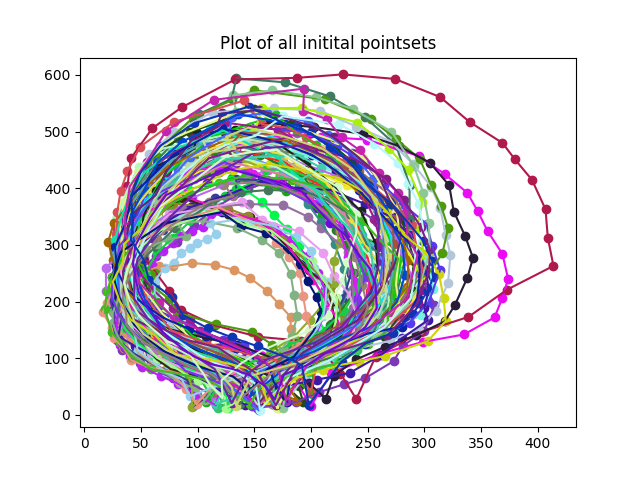
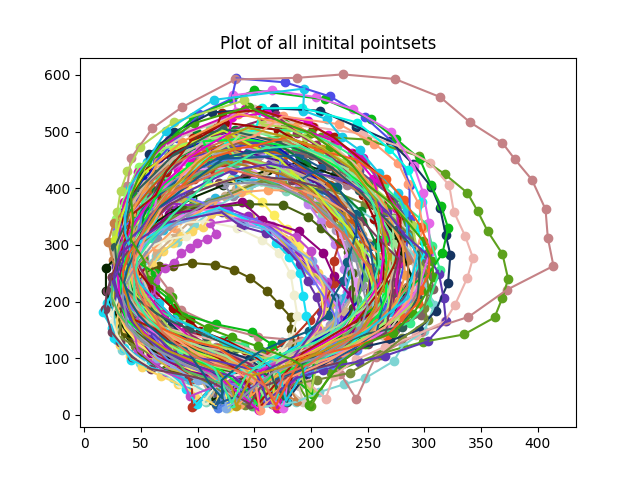
A1: Brain data done

diff --git a/assignmentShapeAnalysis/code/visualize_pointset.py b/assignmentShapeAnalysis/code/visualize_pointset.py
@@ -6,7 +6,7 @@ def visualize_checkpoints(pointset, img_path):
 	img = plt.imread(img_path)
 
 	fig, ax = plt.subplots()
-	ax.imshow(img)
+	ax.imshow(img, cmap='gray')
 	
 	x_values = list(pointset[0,:,0]); y_values = list(pointset[0,:,1])
 
@@ -14,11 +14,7 @@ def visualize_checkpoints(pointset, img_path):
 	ax.plot([x_values[-1], x_values[0]], [y_values[-1], y_values[0]], 'ro-')
 	# plt.show()
 
-# parser = argparse.ArgumentParser()
-# parser.add_argument('--data_path', '-d', default='sample.png' , required=False, help="Path to the image")
-# parser.add_argument('--pointset', '-p', required=True, help='path to store the pointsets')
-# parser.add_argument('--overwrite', '-o', action='store_true', help='if overwriting existing pointset file is allowed')
-# args = parser.parse_args()
+
 
 pointset = np.load('../leaf.npy')
 

diff --git a/assignmentShapeAnalysis/code/main.py b/assignmentShapeAnalysis/code/main.py
@@ -13,8 +13,15 @@ for k, v in f.items():
 solve(data, save_plot_dir = '../results/hand')
 
 # ------------------------- Leaf dataset -------------------------
-data_path = '../data/leaf/leaf_74.npy'
+data_path = '../data/leaf/leaf.npy'
 data = np.load(data_path)
 solve(data, save_plot_dir = '../results/leaf', data_dir= '../data/leaf/data')
+
+# ------------------------- Brain MRI dataset -------------------------
+data_path = '../data/brain/brain.npy'
+data = np.load(data_path)
+solve(data, save_plot_dir = '../results/brain', data_dir= '../data/brain/data')
+
+
 
 
